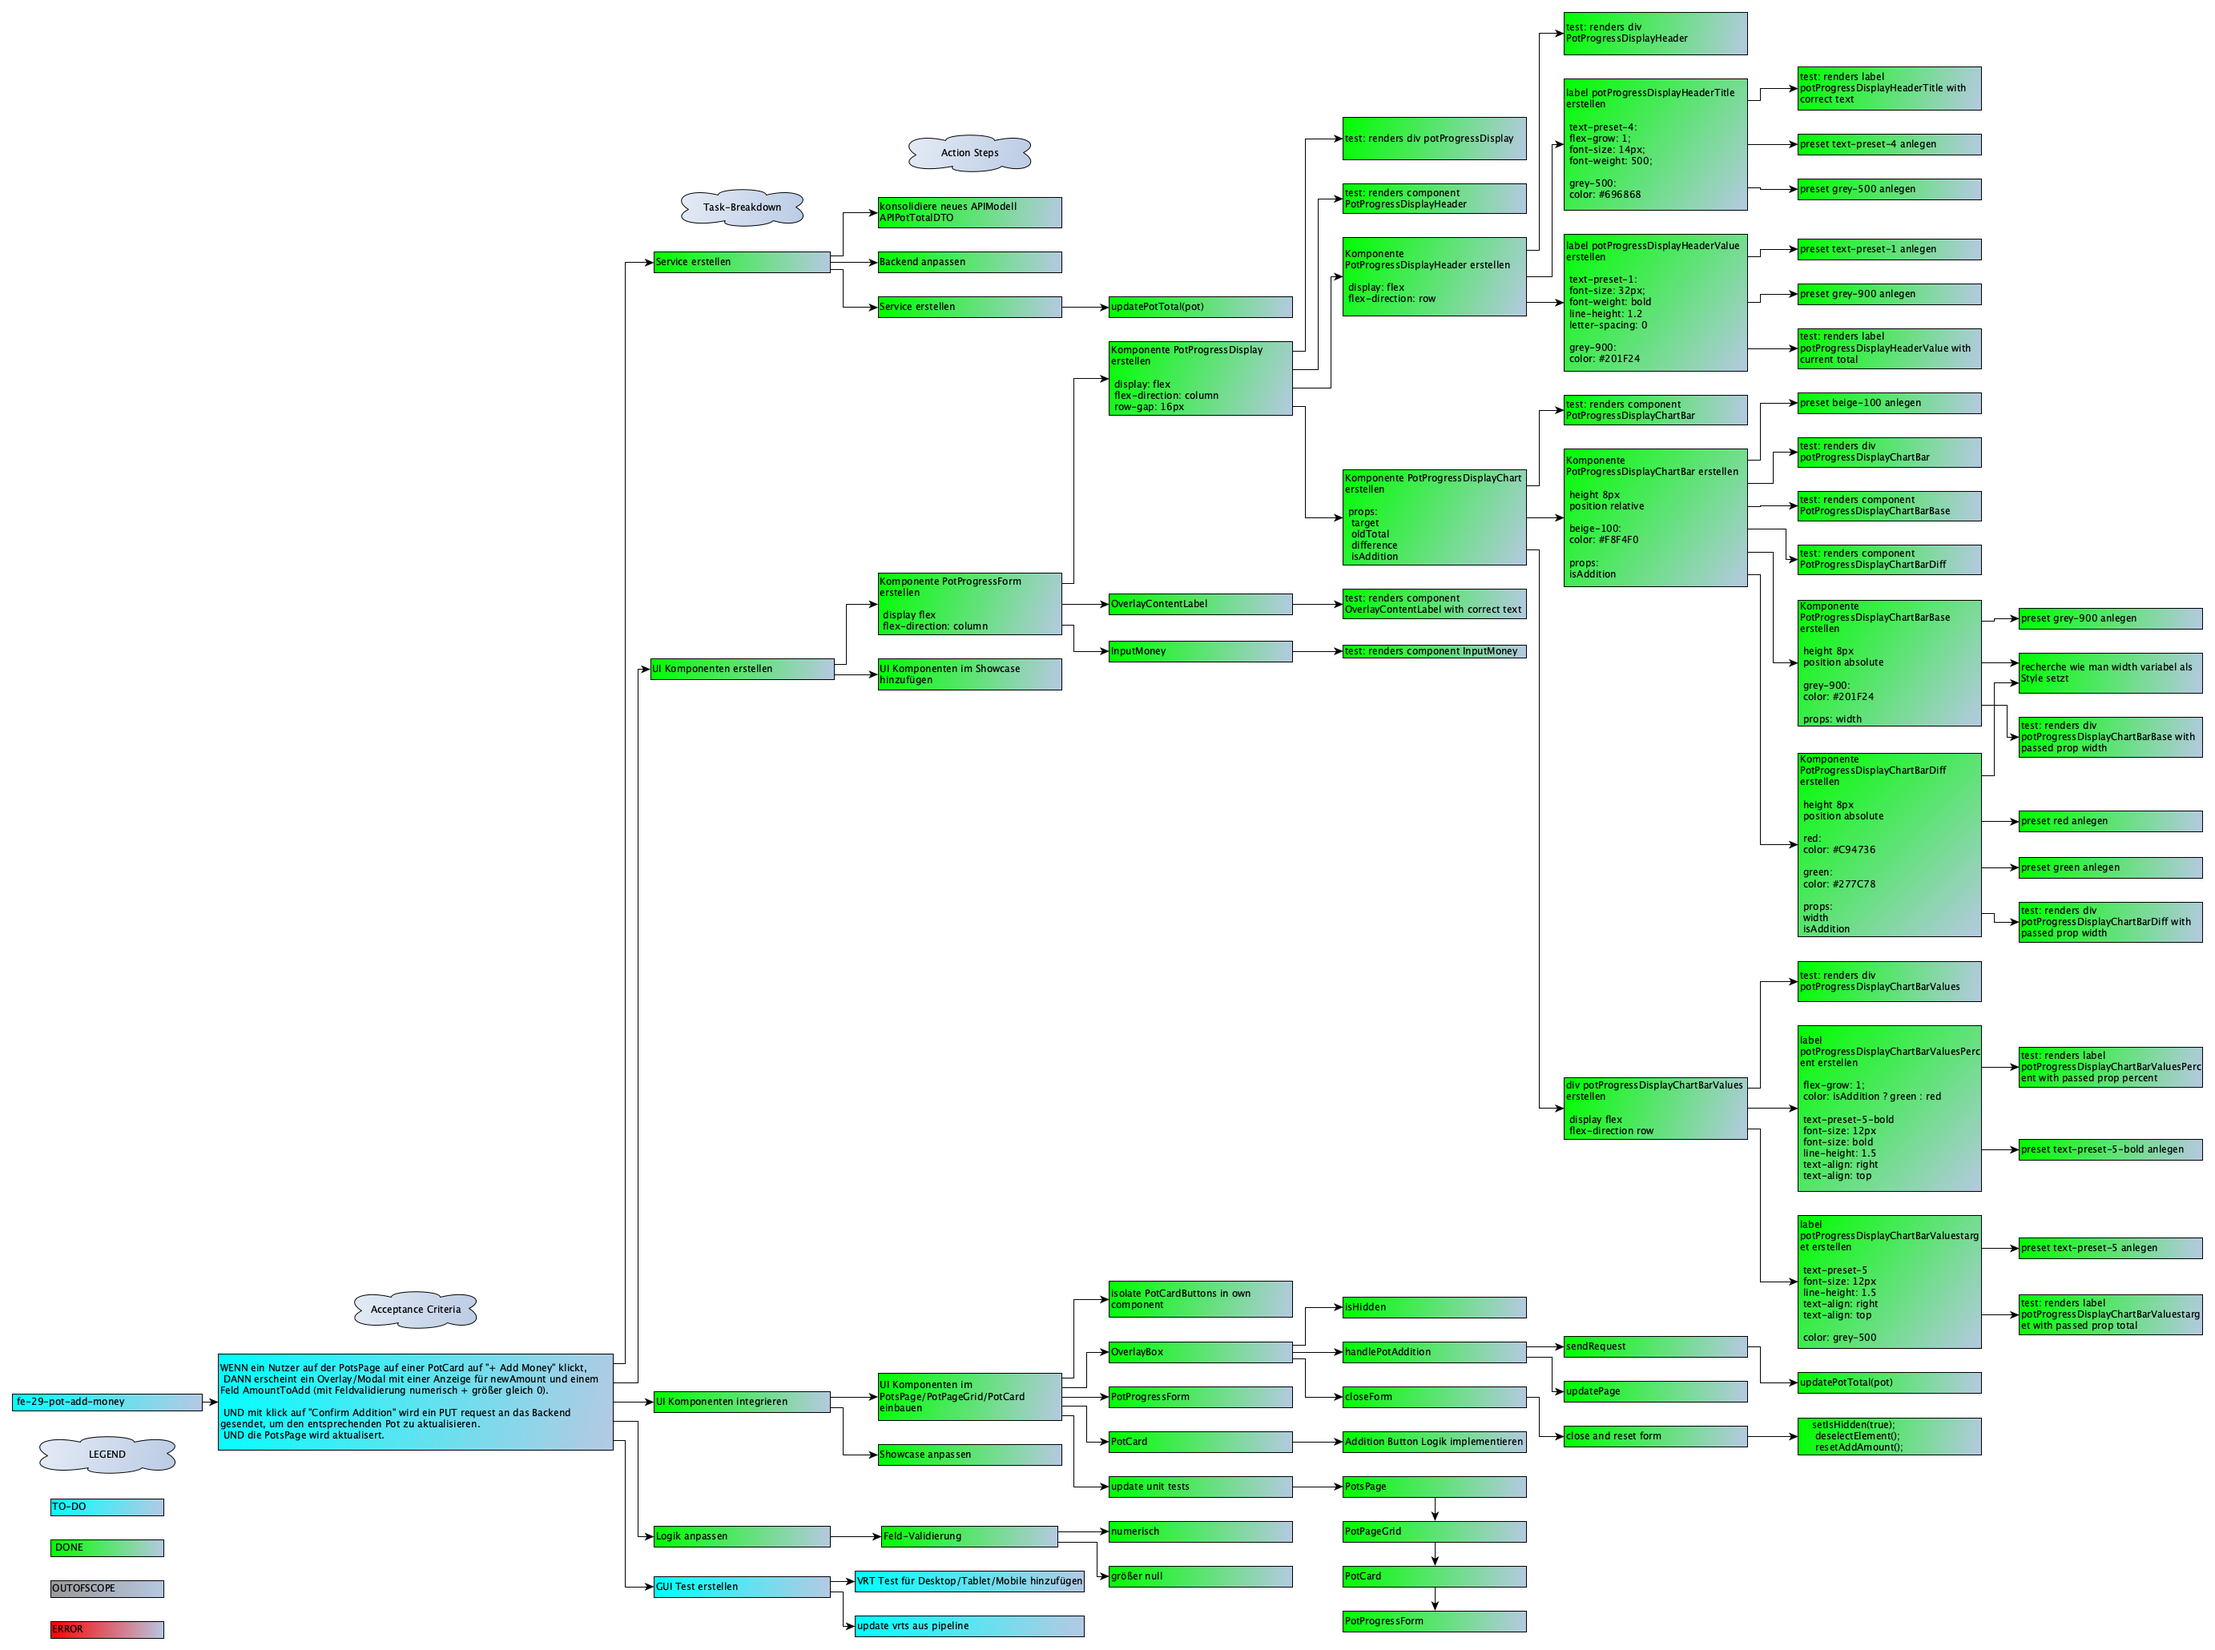
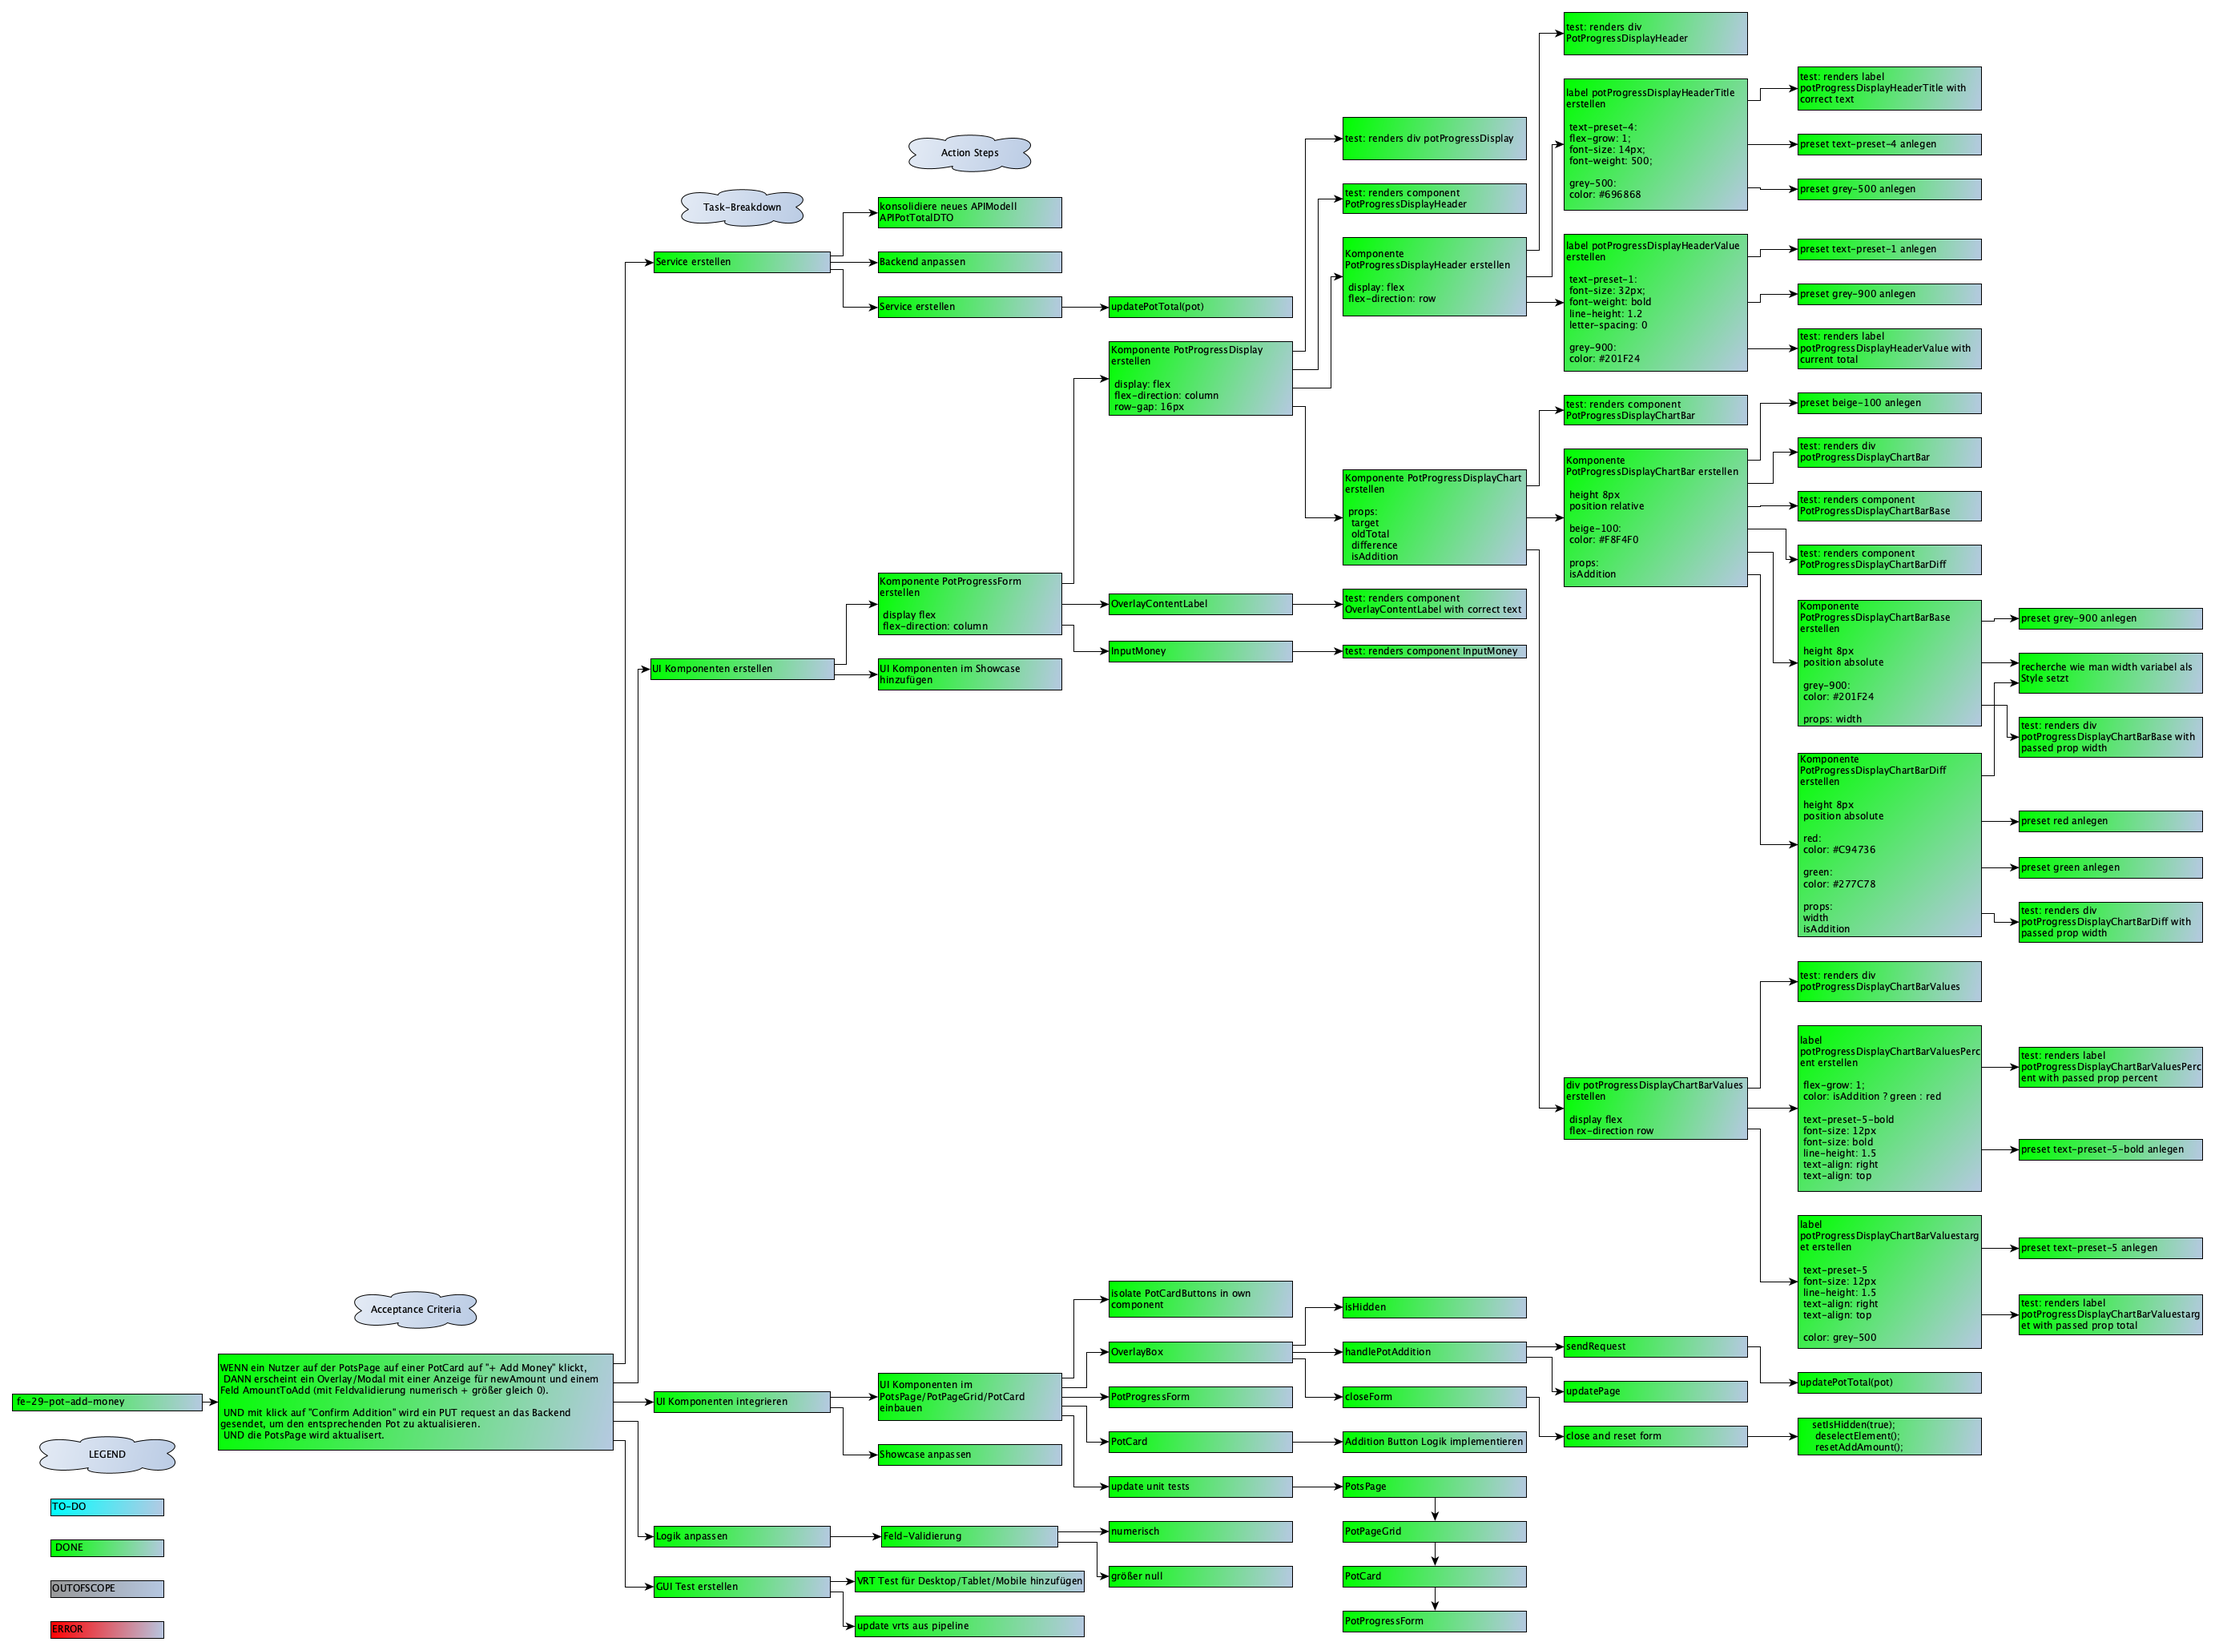
fe-29 add gui-tests

Changed region(s): [[0.0, 0.8078, 0.2799, 0.901], [0.2799, 0.932, 0.4976, 0.9942]]

diff --git a/frontend/ui-tests/gui-tests/componenttests/PotProgressForm.spec.ts b/frontend/ui-tests/gui-tests/componenttests/PotProgressForm.spec.ts
@@ -1,0 +1,30 @@
+import { test, expect } from '@playwright/test';
+import openPage from '../utils/openPage';
+import { DeviceHeight, DeviceWidth } from '../constants';
+import removeFocus from '../utils/removeFocus';
+
+const BASE_PATH: string = 'http://localhost:5173/showcase/PotProgressForm';
+
+test('PotProgressForm-Desktop', async ({ page }): Promise<void> => {
+  await openPage(page, BASE_PATH, DeviceHeight.Default, DeviceWidth.Desktop);
+
+  await removeFocus(page);
+
+  await expect(page).toHaveScreenshot();
+});
+
+test('PotProgressForm-Tablet', async ({ page }): Promise<void> => {
+  await openPage(page, BASE_PATH, DeviceHeight.Default, DeviceWidth.Tablet);
+
+  await removeFocus(page);
+
+  await expect(page).toHaveScreenshot();
+});
+
+test('PotProgressForm-Mobile', async ({ page }): Promise<void> => {
+  await openPage(page, BASE_PATH, DeviceHeight.Default, DeviceWidth.Mobile);
+
+  await removeFocus(page);
+
+  await expect(page).toHaveScreenshot();
+});
